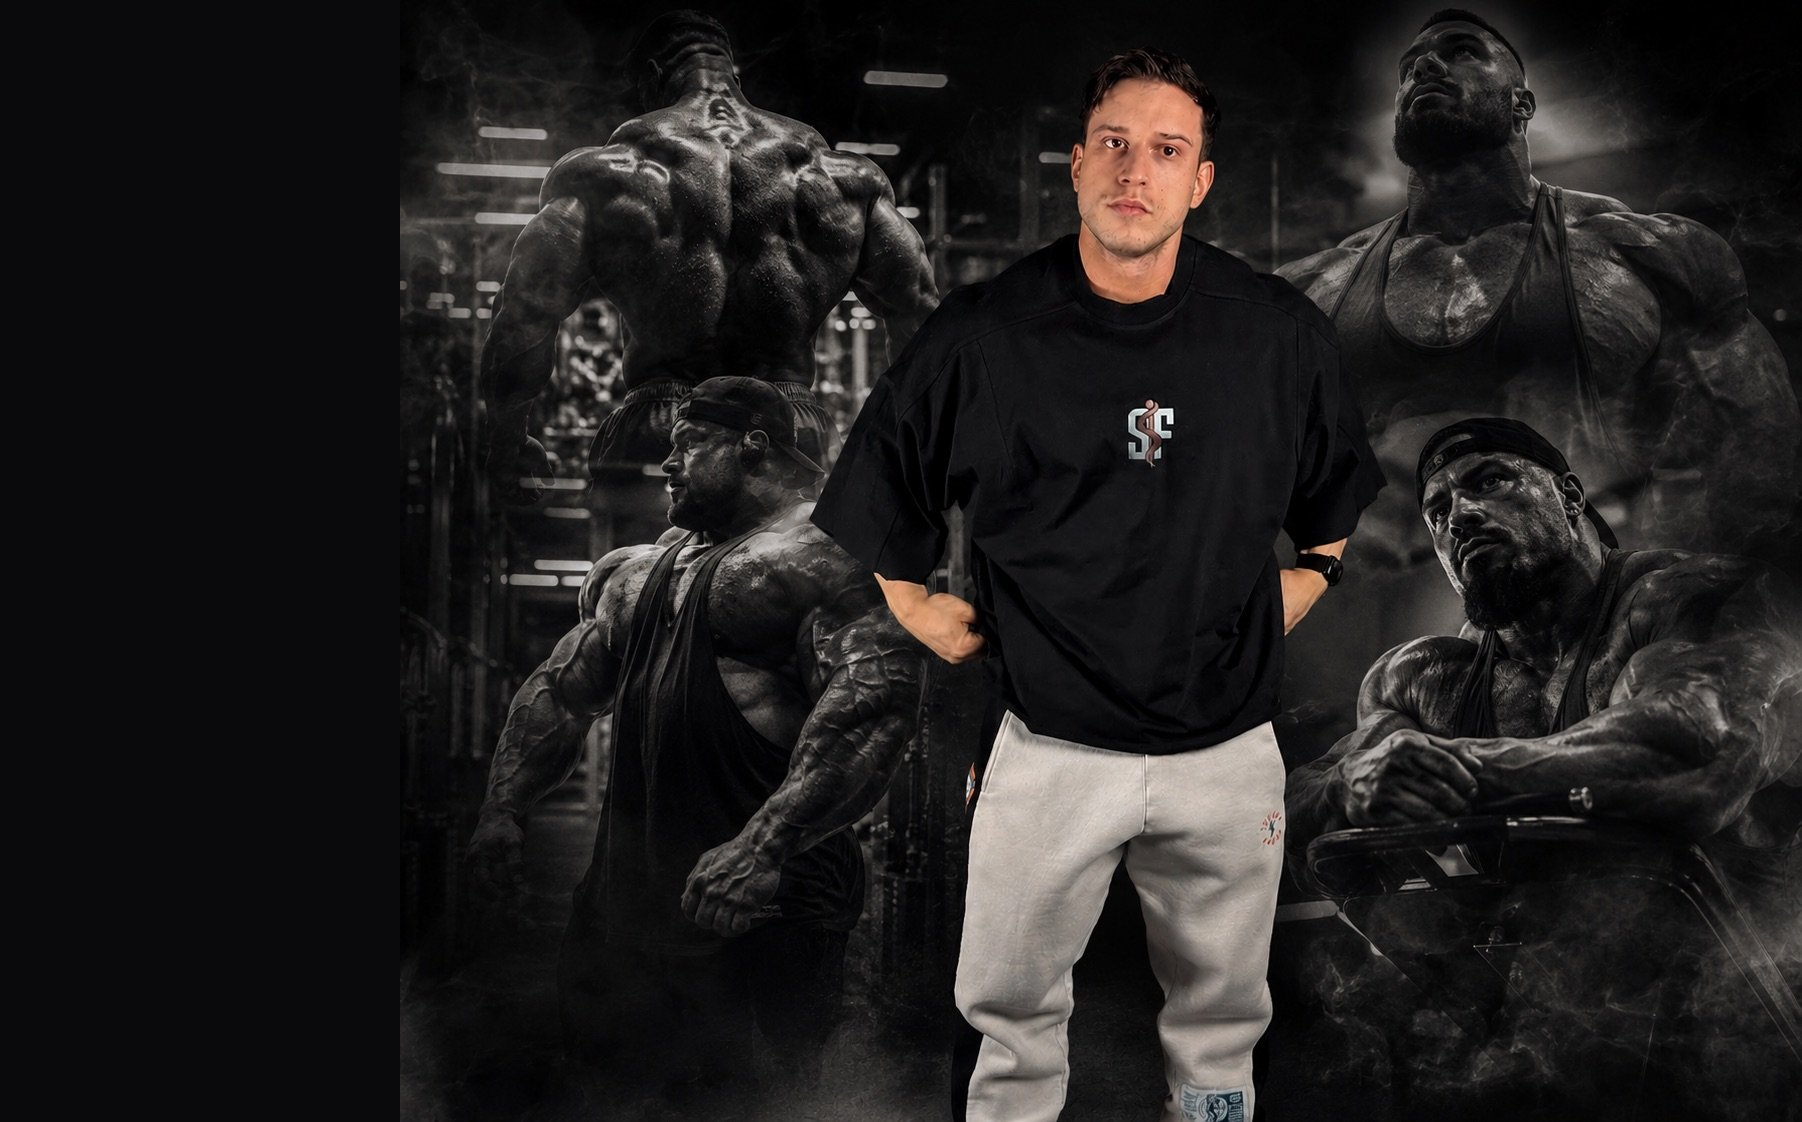
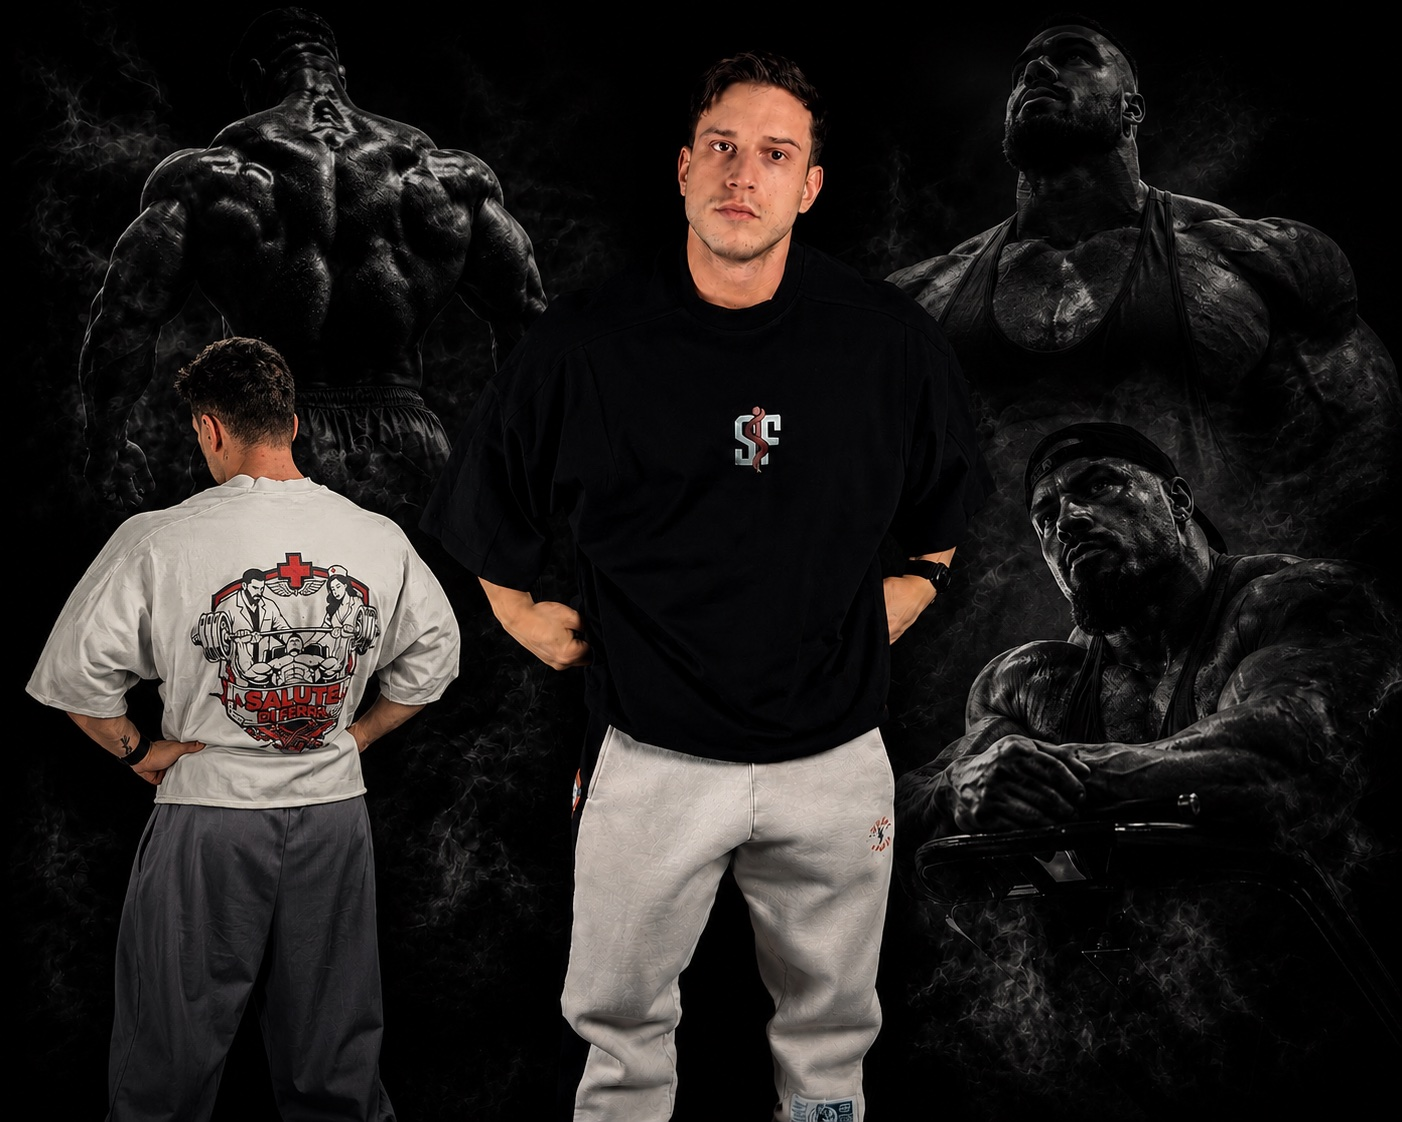
feat(hero): swap background a nuovo compositing Trilli + atleti SDF
Nuova immagine hero: soggetto centrale (Trilli, maglia nera SDF) su sfondo
dark con 4 silhouette bodybuilder + atleta con maglia bianca grafico medico
SDF a sinistra. Stesso mood dark coerente brand.

- hero-trilli.jpg: 1402x1122 JPEG 85% (376KB, era 240KB)
- hero-trilli-mobile.jpg: 631x1122 center crop 9:16 (144KB, era 131KB)
- Cache bust: ?v=3 -> ?v=4 (desktop) / ?v=1 -> ?v=2 (mobile)
- Backup vecchi files in public/_replaced-2026-05-20/ (gitignored)

A11y (review accessibility-lead 20 mag 2026):
- Background decorativo CSS background-image: nessun alt/aria-label/role=img necessario
- Gradient overlay esistente preserva contrast 4.5:1 H1
- Verificare in LIVE: il busto/maglia bianca dell'atleta a sinistra non
  cade sotto testo H1 grazie a center-crop mobile

diff --git a/frontend/src/components/home/Hero.jsx b/frontend/src/components/home/Hero.jsx
@@ -62,7 +62,7 @@ const s = {
     // Hero "hero-trilli": compositing dark mood con soggetto SDF (logo maglietta)
     // centrato + 4 silhouette bodybuilder ai 4 angoli. 1402×1122, già desaturato B&W.
     // Cache-bust via query param per forzare reload utenti con vecchia versione cachata.
-    backgroundImage: 'url("/hero-trilli.jpg?v=3")',
+    backgroundImage: 'url("/hero-trilli.jpg?v=4")',
     // Feedback cliente 2026-05-18 (#2): "Mammoli sotto il heading, sposta a destra".
     // Source v=3 ha 400px padding nero sinistra (1402→1802) → Mammoli passato dal
     // 50% al 61% della larghezza foto. Con position 'center center' + cover Mammoli
@@ -300,7 +300,7 @@ export default function Hero() {
              Soggetto SDF + 2 silhouette laterali visibili, ritagliate le 2 esterne.
              Position center: già pre-cropped in src per centrare il soggetto. */
           .hero-bg-image {
-            background-image: url("/hero-trilli-mobile.jpg?v=1") !important;
+            background-image: url("/hero-trilli-mobile.jpg?v=2") !important;
             background-size: cover !important;
             background-position: center center !important;
             opacity: 0.95 !important;